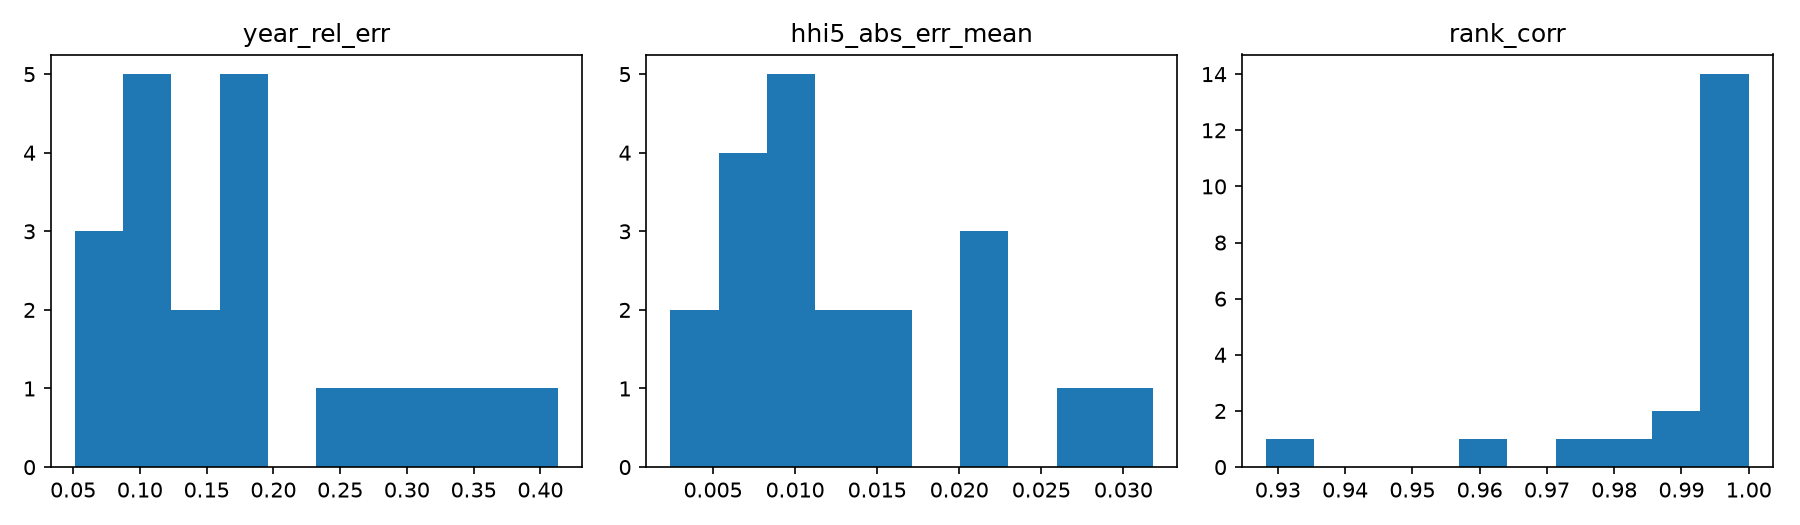
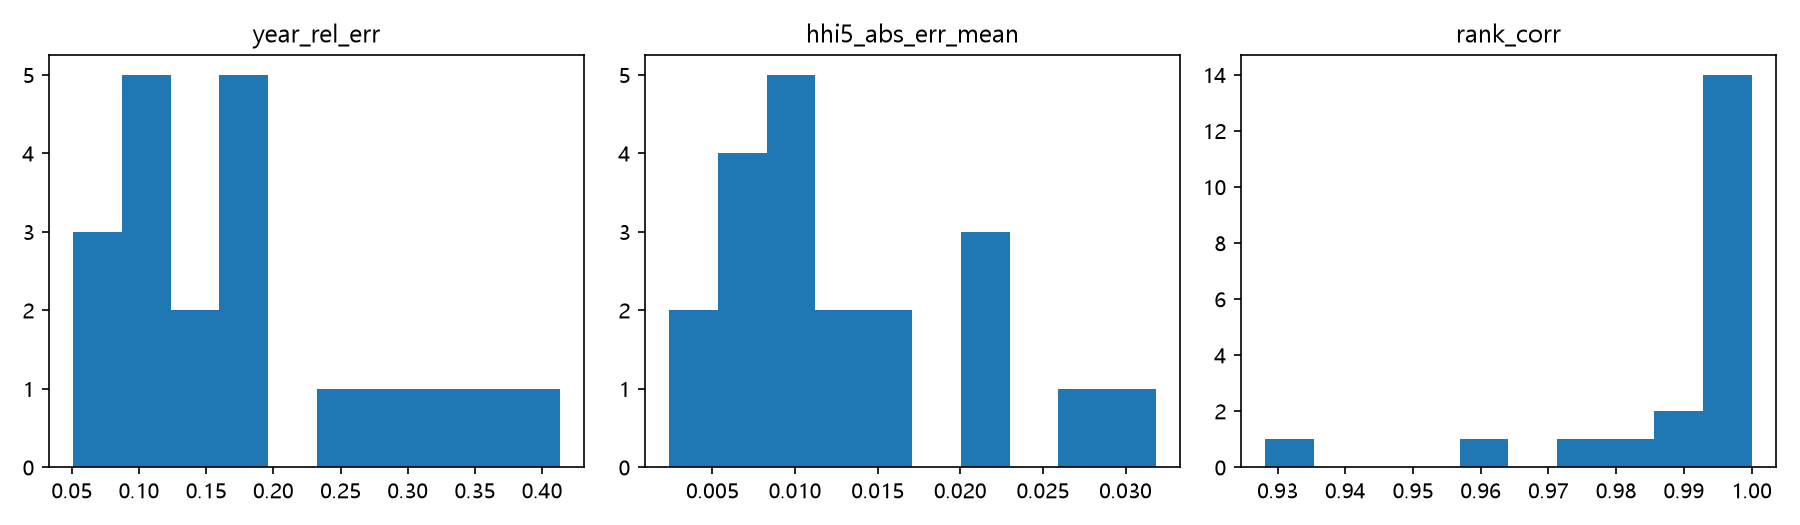
tiv분석

diff --git a/src/analysis/analysis_tiv.py b/src/analysis/analysis_tiv.py
@@ -1,0 +1,164 @@
+# %%
+import numpy as np
+import pandas as pd
+
+OFFICIAL = "../../data/analysis/tiv_supplier_official_clean.csv"
+MINE = "../../data/processed/tiv_recipient.csv"
+
+KEYS = ["recipient_iso_a3", "year", "supplier_iso_a3"]
+
+off = pd.read_csv(OFFICIAL)
+mine = pd.read_csv(MINE)
+
+mine["supplier_iso_a3"] = mine["supplier_iso_a3"].replace(
+    {"unknown supplier(s)": "UNK"}
+)
+
+# 합격 기준 (결과 보기 전에 고정)
+CRITERIA = {"total_ratio": (0.98, 1.02), "year_rel_err": (0, 0.10),
+            "hhi5_abs_err_mean": (0, 0.03), "rank_corr": (0.90, 1.0)}
+
+# ---------- 1) 두 표 맞대기 ----------
+mine = mine[KEYS + ["tiv_per_year"]]
+mine = mine[mine["year"].between(2016, 2025)]
+
+cmp = mine.merge(off[KEYS + ["tiv_official"]], on=KEYS, how="outer")
+cmp[["tiv_per_year", "tiv_official"]] = cmp[["tiv_per_year", "tiv_official"]].fillna(0)
+cmp = cmp[cmp["recipient_iso_a3"].isin(off["recipient_iso_a3"].unique())]  # 20개국만
+
+# ---------- 2) 계산용 함수 ----------
+def hhi(g, col, years):
+    """공급국 점유율 제곱합(HHI, 0~1)을 구한다.
+    들어오는 값: g(한 수입국의 표), col(TIV 열 이름), years(계산에 쓸 연도 목록)
+    돌려주는 값: HHI 숫자 하나 (해당 기간 거래가 없으면 NaN)
+    """
+    s = g[g["year"].isin(years)].groupby("supplier_iso_a3")[col].sum()
+    total = s.sum()
+    if total == 0:
+        return np.nan
+    return ((s / total) ** 2).sum()
+
+
+def validate_one(g):
+    """한 수입국의 균등배분 vs SIPRI 비교 지표 6개를 계산한다.
+    들어오는 값: g(한 수입국의 비교 표: tiv_per_year, tiv_official 열 포함)
+    돌려주는 값: 지표 6개가 담긴 Series
+    """
+    m, o = g["tiv_per_year"], g["tiv_official"]
+    total_ratio = m.sum() / o.sum()
+    cell_wape = (m - o).abs().sum() / o.sum()
+
+    yr = g.groupby("year")[["tiv_per_year", "tiv_official"]].sum()
+    yr = yr[yr["tiv_official"] > 0]
+    year_err = ((yr["tiv_per_year"] - yr["tiv_official"]).abs() / yr["tiv_official"]).mean()
+
+    errs = []
+    for end in range(2020, 2026):                       # 5년 창을 굴리며 비교
+        win = list(range(end - 4, end + 1))
+        errs.append(abs(hhi(g, "tiv_per_year", win) - hhi(g, "tiv_official", win)))
+
+    sup = g.groupby("supplier_iso_a3")[["tiv_per_year", "tiv_official"]].sum()
+    sup = sup[(sup > 0).any(axis=1)]                    # 양쪽 다 0인 공급국 제외
+    rank_corr = sup["tiv_per_year"].rank().corr(sup["tiv_official"].rank())
+
+    return pd.Series({
+        "total_ratio": total_ratio, "year_rel_err": year_err, "cell_wape": cell_wape,
+        "hhi5_abs_err_mean": np.nanmean(errs), "hhi5_abs_err_max": np.nanmax(errs),
+        "rank_corr": rank_corr,
+    })
+
+
+# ---------- 3) 20개국 실행 + 합격 판정 ----------
+res = pd.DataFrame({r: validate_one(g) for r, g in cmp.groupby("recipient_iso_a3")}).T
+
+for col, (lo, hi) in CRITERIA.items():
+    res[col + "_ok"] = res[col].between(lo, hi)
+print(res.round(3))
+print(res.filter(like="_ok").mean())        # 지표별 합격 국가 비율
+res.to_csv("../../data/analysis/tiv_validation_result.csv", encoding="utf-8-sig")
+
+# ---------- 4) 오차 분포 그래프 ----------
+import matplotlib.pyplot as plt
+fig, axes = plt.subplots(1, 3, figsize=(12, 3.5))
+for ax, col in zip(axes, ["year_rel_err", "hhi5_abs_err_mean", "rank_corr"]):
+    ax.hist(res[col], bins=10)
+    ax.set_title(col)
+plt.tight_layout()
+plt.savefig("../../data/analysis/tiv_validation_dist.png", dpi=150)
+
+# %%
+yr = cmp.groupby(["recipient_iso_a3", "year"])[["tiv_per_year", "tiv_official"]].sum()
+m = yr["tiv_per_year"].unstack(fill_value=0)      # 행: 수입국, 열: 연도 (균등배분)
+o = yr["tiv_official"].unstack(fill_value=0)      # 행: 수입국, 열: 연도 (SIPRI)
+
+rows = []
+for end in range(2020, 2026):                      # 5년 창을 굴리며 합산
+    cols = list(range(end - 4, end + 1))
+    rows.append(pd.DataFrame({
+        "end": end,
+        "mine": m[cols].sum(axis=1),
+        "official": o[cols].sum(axis=1),
+    }))
+w = pd.concat(rows)
+w = w[w["official"] > 0]
+w["rel_err"] = (w["mine"] - w["official"]).abs() / w["official"]
+
+print(w["rel_err"].describe().round(3))
+print((w["rel_err"] <= 0.10).mean())               # 10% 이내 비율 (0.908)
+# %%
+# 2) 5년 합계 오차가 큰 국가 (국가별 평균, 상위 6개)
+print(w["rel_err"].groupby(level=0).mean().sort_values(ascending=False).head(6).round(3))
+# 기대값: POL 0.124, SVK 0.113, AUS 0.077, IRQ 0.077, PER 0.060, QAT 0.056
+
+# 3) 1년 HHI 절대오차
+errs = []
+for (r, y), g in cmp.groupby(["recipient_iso_a3", "year"]):
+    errs.append(abs(hhi(g, "tiv_per_year", [y]) - hhi(g, "tiv_official", [y])))
+e1 = pd.Series(errs).dropna()           # 양쪽 모두 거래가 있는 수입국·연도만 남음
+print(len(e1), e1.mean().round(3), e1.median().round(3), e1.quantile(0.9).round(3), e1.max().round(3))
+# 기대값: 196, 0.034, 0.022, 0.080, 0.333
+
+# 4) 한국 공급 TIV
+k = cmp[cmp["supplier_iso_a3"] == "KOR"]
+print(round(k["tiv_official"].sum(), 1), round(k["tiv_per_year"].sum(), 1))   # 6688.0, 6650.9
+kk = k[k["tiv_official"] > 0]
+print(((kk["tiv_per_year"] - kk["tiv_official"]).abs().sum() / kk["tiv_official"].sum()).round(3))  # 0.284
+# %%
+master = pd.read_csv("../../data/mapping/country_map_master.csv")
+name_map = master.set_index("iso_a3")["country_name_ko"].to_dict()
+
+tbl = res[["total_ratio", "year_rel_err", "cell_wape",
+           "hhi5_abs_err_mean", "hhi5_abs_err_max", "rank_corr"]].round(3).copy()
+tbl.insert(0, "국가", tbl.index.map(lambda x: name_map.get(x, x)))
+tbl["종합합격"] = res.filter(like="_ok").all(axis=1)      # 4개 기준 모두 통과해야 True
+tbl = tbl.rename(columns={
+    "total_ratio": "총량 비율", "year_rel_err": "연도별 상대오차",
+    "cell_wape": "칸 단위 오차(WAPE)", "hhi5_abs_err_mean": "5년 HHI 오차(평균)",
+    "hhi5_abs_err_max": "5년 HHI 오차(최대)", "rank_corr": "공급국 순위 상관"})
+
+print(tbl.iloc[:, 1:7].agg(["mean", "median"]).round(3))   # 평균·중앙값 행
+print(tbl["종합합격"].sum(), "/ 20")
+tbl.to_csv("../../data/analysis/tiv_validation_table.csv", encoding="utf-8-sig")
+# %%
+import matplotlib.pyplot as plt
+plt.rcParams["font.family"] = "Malgun Gothic"      # 맥은 "AppleGothic"
+plt.rcParams["axes.unicode_minus"] = False
+
+def panel(ax, x, title, lines=(), bins=10, xlabel=""):
+    """히스토그램 한 칸을 그린다.
+    들어오는 값: ax(그릴 칸), x(오차 값들), title(제목), lines(합격 기준선 위치), bins(막대 수), xlabel(가로축 이름)
+    돌려주는 값: 없음 (그 칸에 그림이 그려짐)
+    """
+    ax.hist(x, bins=bins, edgecolor="white")
+    for v in lines:
+        ax.axvline(v, color="red", ls="--")
+    ax.set_title(title); ax.set_xlabel(xlabel); ax.set_ylabel("국가 수")
+
+fig, axes = plt.subplots(2, 2, figsize=(11, 8))
+panel(axes[0, 0], res["total_ratio"], "총량 비율 (균등배분 ÷ SIPRI)", lines=[0.98, 1.02], xlabel="비율")
+panel(axes[0, 1], res["year_rel_err"], "연도별 상대오차", lines=[0.10], xlabel="상대오차")
+panel(axes[1, 0], res["hhi5_abs_err_mean"], "5년 HHI 절대오차(평균)", lines=[0.03], xlabel="절대오차")
+panel(axes[1, 1], w["rel_err"], "5년 합계 상대오차(사후 확인)", lines=[0.10], bins=15, xlabel="상대오차")
+axes[1, 1].set_ylabel("국가·기간 수")
+plt.tight_layout()
+plt.savefig("../../data/analysis/tiv_validation_dist_2.png", dpi=150)
